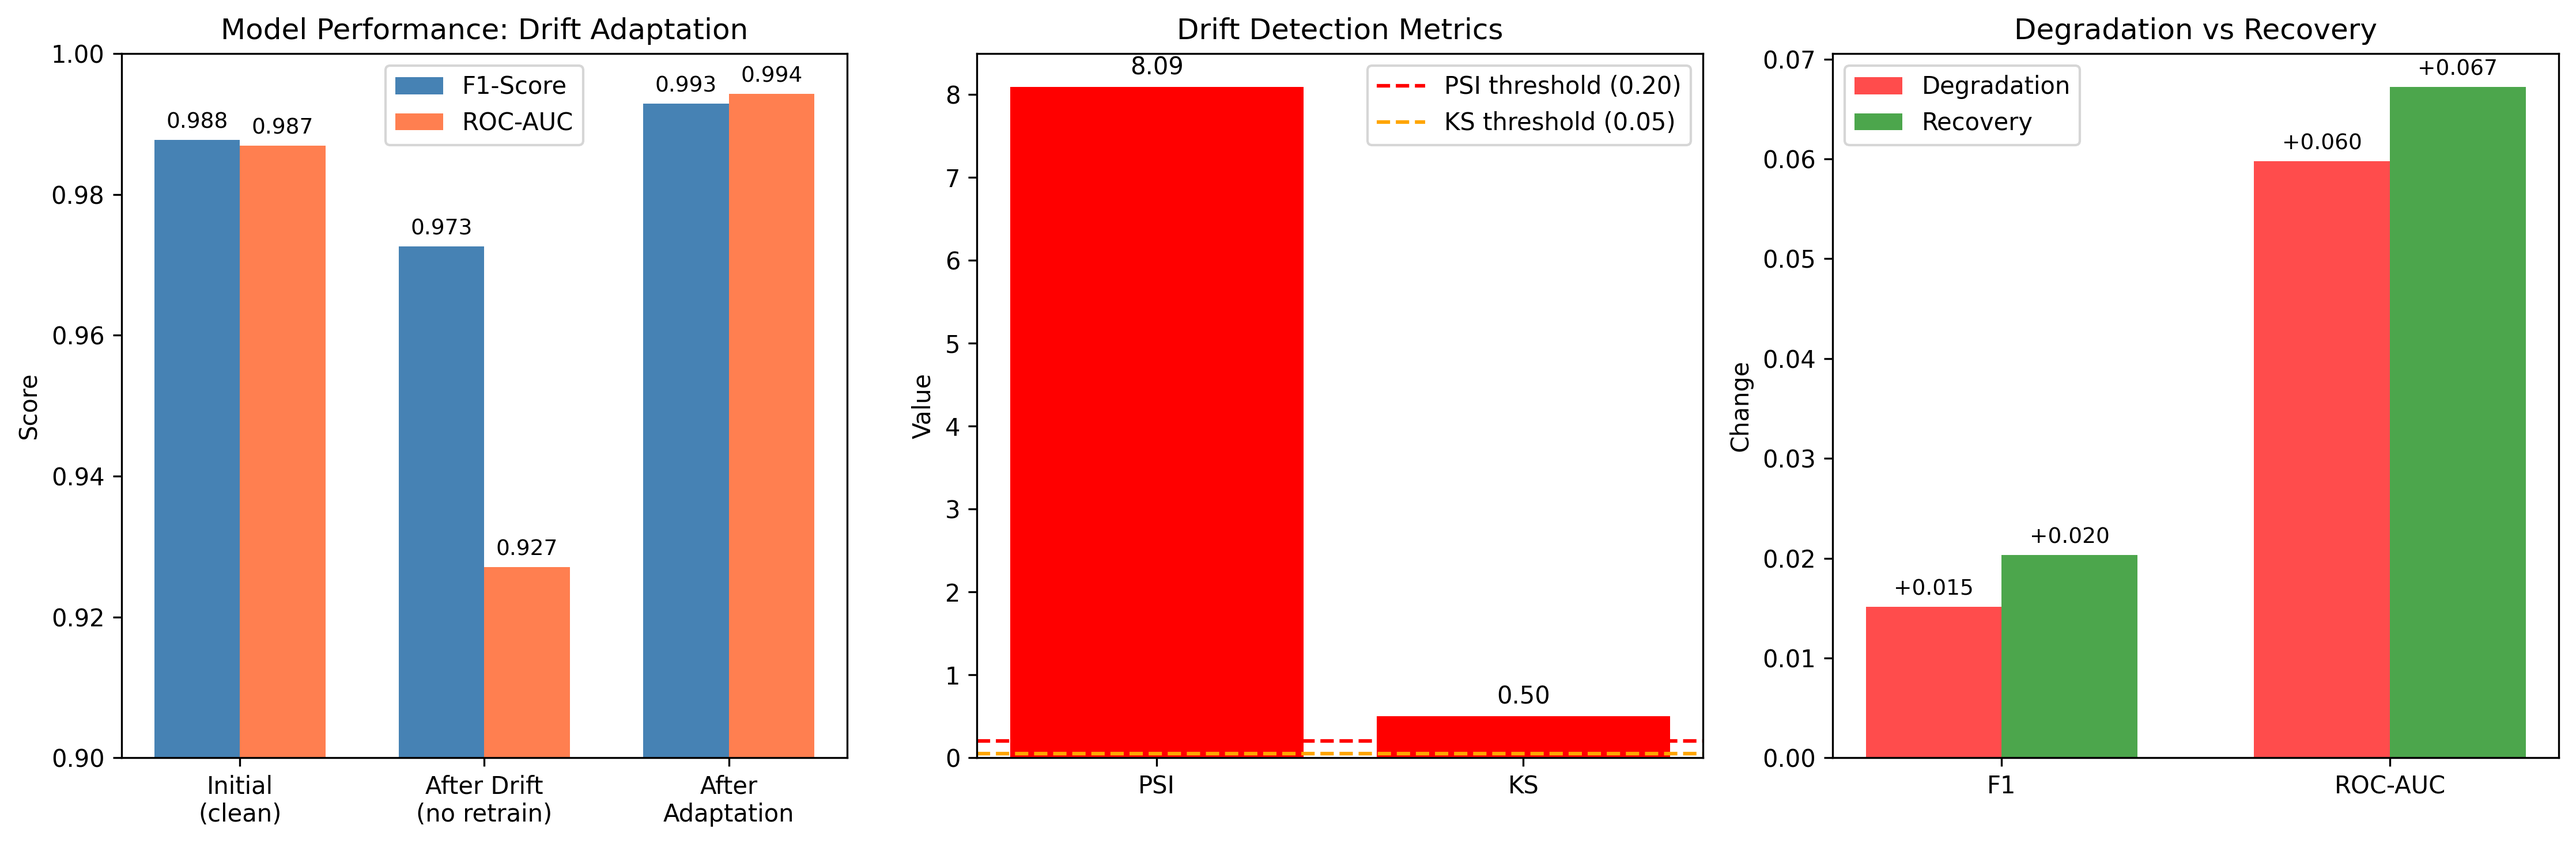
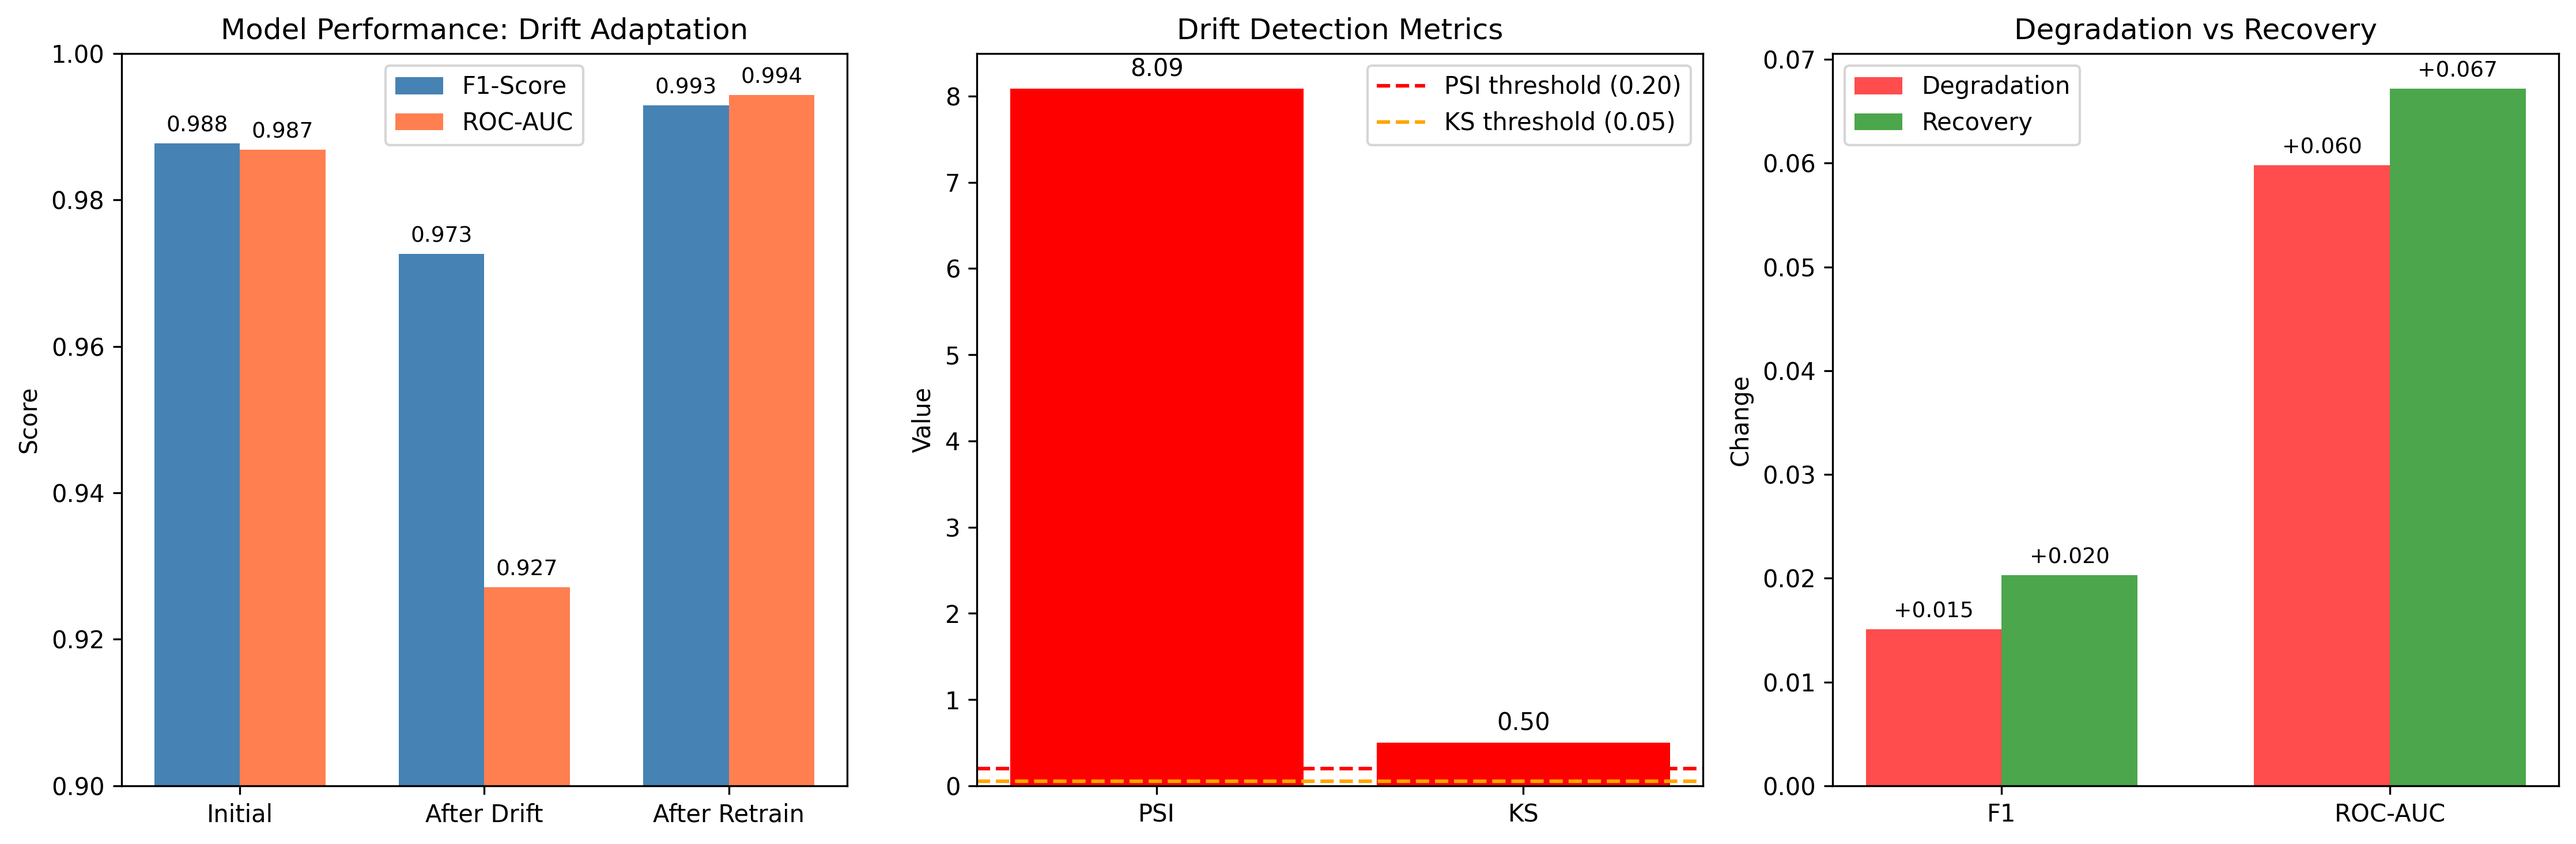
fix: Update graph labels to Initial/After Drift/After Retrain

diff --git a/scripts/generate_paper_graphs.py b/scripts/generate_paper_graphs.py
@@ -6,7 +6,7 @@ import matplotlib.pyplot as plt
 import numpy as np
 
 # Results data
-phases = ['Initial\n(clean)', 'After Drift\n(no retrain)', 'After\nAdaptation']
+phases = ['Initial', 'After Drift', 'After Retrain']
 f1_scores = [0.9877, 0.9726, 0.9929]
 roc_scores = [0.9869, 0.9271, 0.9943]
 
@@ -97,28 +97,4 @@ plt.tight_layout()
 plt.savefig('output/plots/drift_adaptation_results.png', dpi=300, bbox_inches='tight')
 plt.close()
 
-# Additional: Single metrics summary
-fig2, ax = plt.subplots(figsize=(8, 6))
-
-metrics = ['F1-Score', 'ROC-AUC', 'Robustness', 'Drift Detection']
-values = [0.9877, 0.9869, 0.9834, 1.0]  # 1.0 for drift detection = 100% detection rate
-colors = ['steelblue', 'coral', 'green', 'purple']
-
-bars = ax.barh(metrics, values, color=colors)
-ax.set_xlim(0, 1.1)
-
-for bar, val in zip(bars, values):
-    ax.annotate(f'{val:.2f}',
-              xy=(val, bar.get_y() + bar.get_height() / 2),
-              xytext=(5, 0), textcoords="offset points",
-              ha='left', va='center', fontsize=11)
-
-ax.set_xlabel('Value')
-ax.set_title('Summary: Key Performance Metrics')
-plt.tight_layout()
-plt.savefig('output/plots/metrics_summary.png', dpi=300, bbox_inches='tight')
-plt.close()
-
-print("Generated plots:")
-print("- output/plots/drift_adaptation_results.png")
-print("- output/plots/metrics_summary.png")
+print("Generated: output/plots/drift_adaptation_results.png")
